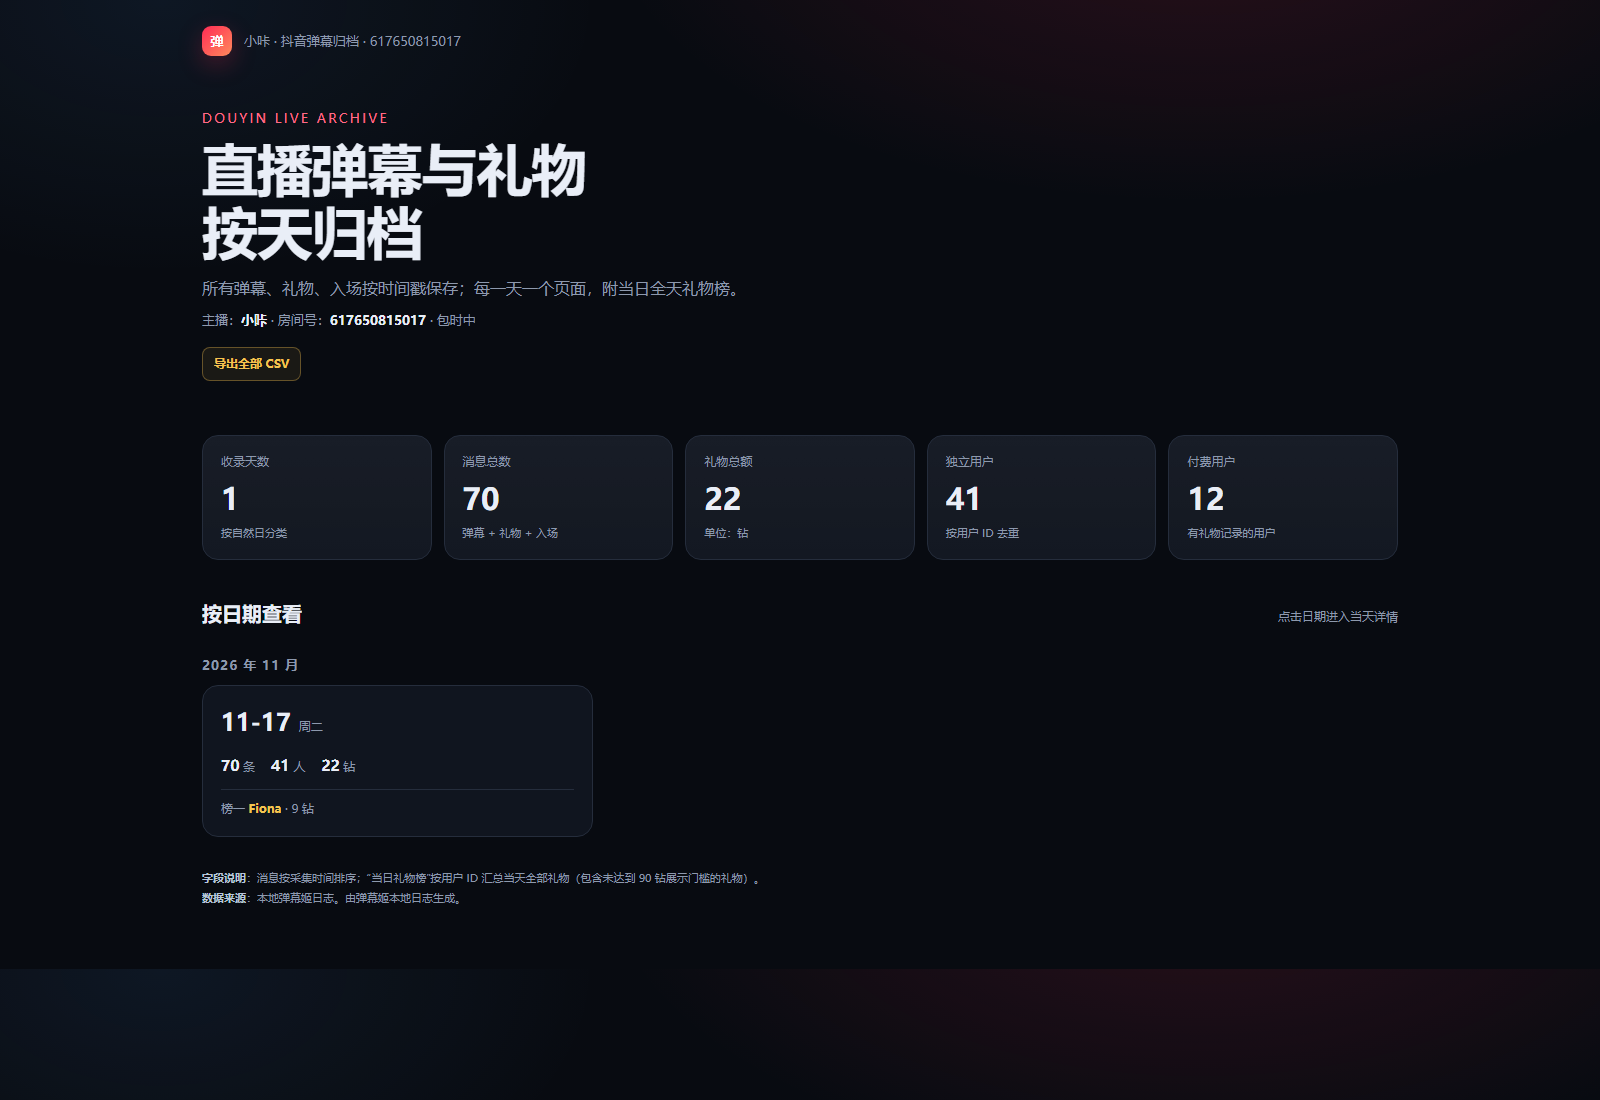
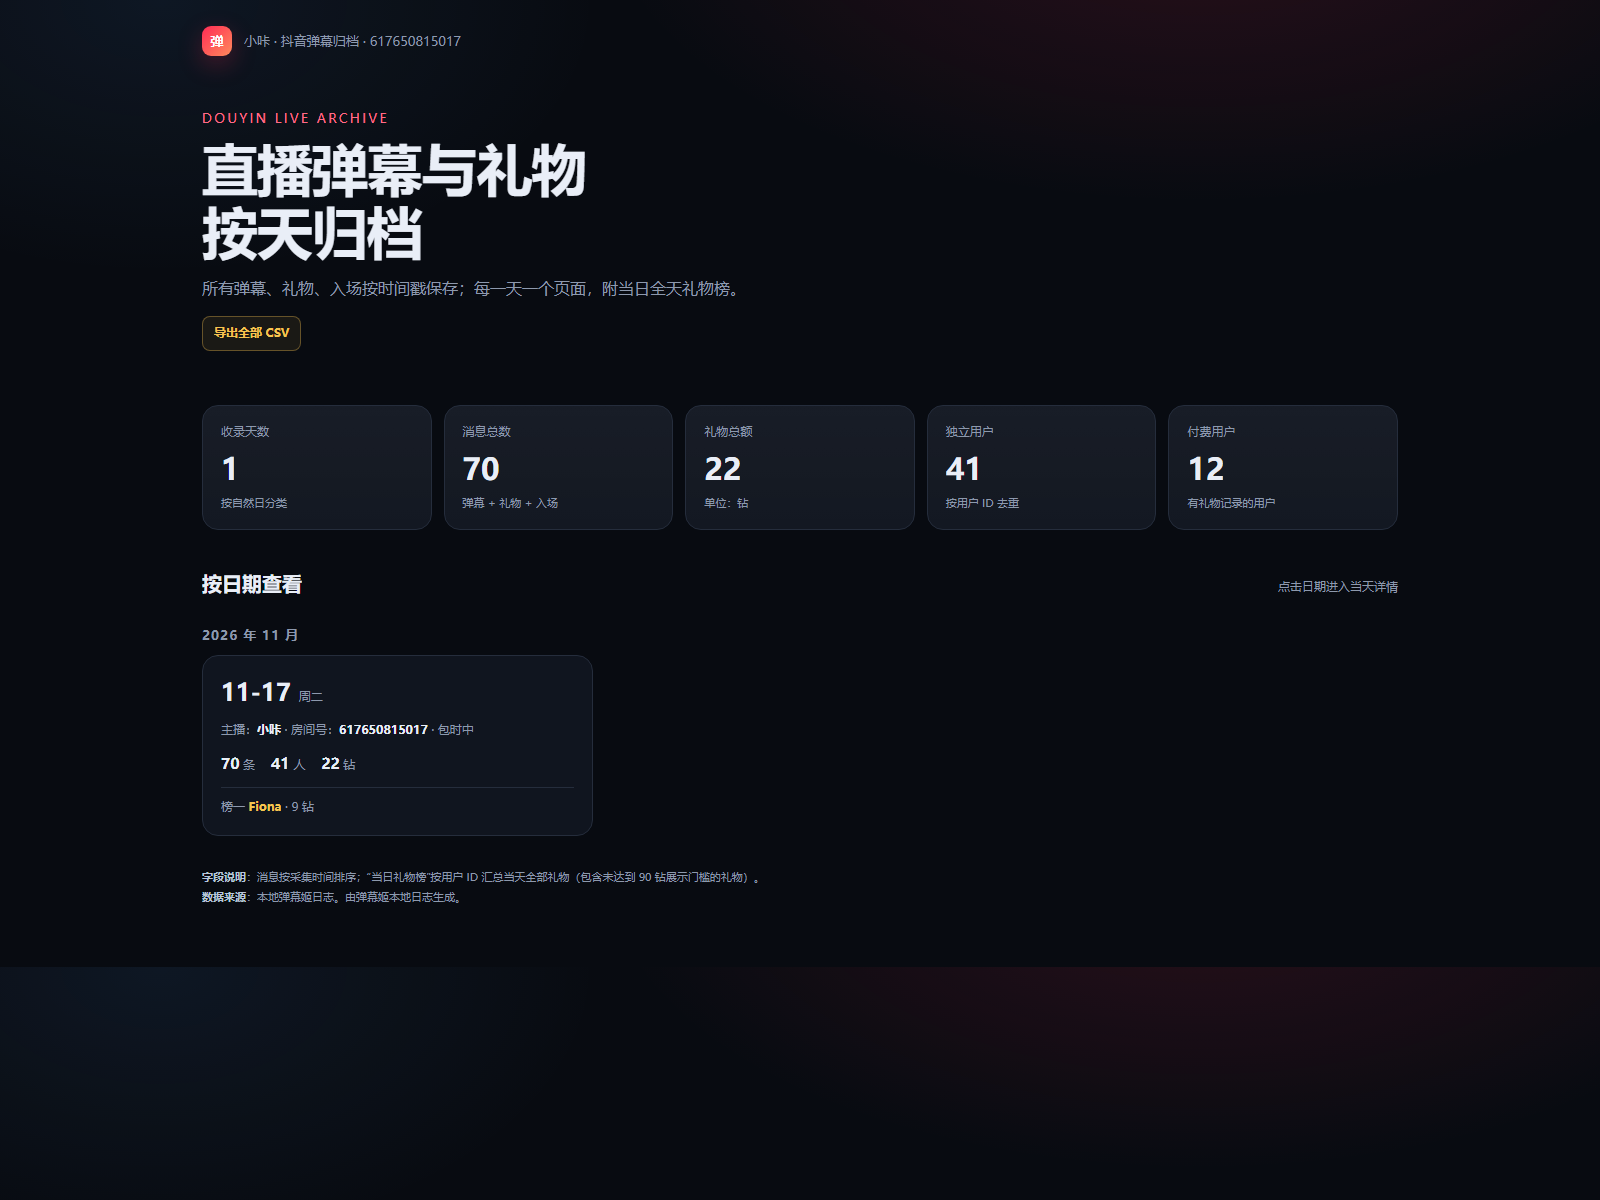
Auto-update daily archive site and move room metadata to date cards

diff --git a/aurora_gui.py b/aurora_gui.py
@@ -3,8 +3,8 @@
 """弹幕助手 · Aurora Dark
 
 单一弹幕流：聊天 + 粉丝团 Lv.15+ 入场混排；
-底部固定 5 条 >90 钻礼物，格式为：
-    Lv.16  ID 123456  送出了 嘉年华 ×2，价值 60,000 钻
+底部可滚动礼物栏，默认显示最近 5 条 >90 钻礼物，格式为：
+    消费Lv.26 粉丝Lv.16 小番茄 送出了【跑车】x1，价值1,200钻
 界面不显示时间戳，但 CSV / 导出网站仍保留完整时间。
 """
 
@@ -59,8 +59,11 @@ class AuroraApp:
 
         self.chat_count = 0
         self.gift_count = 0
+        self.total_events = 0
         self.gift_rows: dict[str, dict] = {}
         self.gift_order: list[str] = []
+        self._last_auto_export_events = -1
+        self._auto_export_job = None
 
         self._setup_style()
         self._build_topbar()
@@ -72,6 +75,7 @@ class AuroraApp:
         self.root.after(60, self._dark_titlebar)
         self.root.protocol("WM_DELETE_WINDOW", self.on_close)
         self.root.after(100, self.drain_events)
+        self.root.after(120_000, self._auto_export_loop)
 
     def _dark_titlebar(self):
         try:
@@ -798,11 +802,31 @@ class AuroraApp:
             self._set_status("已断开", MUTED)
 
     def on_close(self):
+        try:
+            if self.client is not None and self.total_events > 0:
+                self.export_site(open_browser=False, quiet=True)
+        except Exception:
+            pass
         if self.client is not None:
             self.client.stop()
         self.root.destroy()
 
-    def export_site(self):
+    def _auto_export_loop(self):
+        """定期把当天日志刷进静态站点；跨天时会自动生成新的日期页。"""
+        try:
+            if (
+                self.client is not None
+                and self.total_events > 0
+                and self.total_events != self._last_auto_export_events
+            ):
+                if self.export_site(open_browser=False, quiet=True):
+                    self._last_auto_export_events = self.total_events
+        except Exception:
+            pass
+        finally:
+            self._auto_export_job = self.root.after(120_000, self._auto_export_loop)
+
+    def export_site(self, open_browser: bool = True, quiet: bool = False) -> bool:
         try:
             import site_builder
 
@@ -812,12 +836,13 @@ class AuroraApp:
                     live_id = parse_live_id(self.room_var.get())
                 except Exception:
                     live_id = None
-            out = app_dir() / "site"
+            out = app_dir() / (f"site_{live_id}" if live_id else "site")
             logs = app_dir() / "logs"
             data = site_builder.load_messages_from_logs(logs, live_id=live_id)
             if not data:
-                messagebox.showinfo("导出网站", "还没有可导出的日志")
-                return
+                if not quiet:
+                    messagebox.showinfo("导出网站", "还没有可导出的日志")
+                return False
             meta = site_builder.load_room_meta(logs, live_id)
             anchor = str(meta.get("anchor_name") or "").strip()
             if anchor and live_id:
@@ -827,12 +852,17 @@ class AuroraApp:
             site_builder.build_site(
                 data, out, title=title, meta=meta, live_id=live_id
             )
-            import webbrowser
+            if open_browser:
+                import webbrowser
 
-            webbrowser.open((out / "index.html").as_uri())
-            messagebox.showinfo("导出网站", f"已导出 {len(data)} 条消息到：\n{out}")
+                webbrowser.open((out / "index.html").as_uri())
+            if not quiet:
+                messagebox.showinfo("导出网站", f"已导出 {len(data)} 条消息到：\n{out}")
+            return True
         except Exception as exc:
-            messagebox.showerror("导出网站失败", str(exc))
+            if not quiet:
+                messagebox.showerror("导出网站失败", str(exc))
+            return False
 
     # ------------------------------------------------------------------
     # 事件
@@ -853,6 +883,7 @@ class AuroraApp:
 
     def _handle(self, event: dict):
         kind = event.get("kind")
+        self.total_events += 1
         if kind == "chat":
             self._hide_chat_placeholder()
             level = int(event.get("fans_club_level") or 0)
@@ -979,6 +1010,7 @@ class AuroraApp:
         self._hide_gift_placeholder()
         self._show_gift_placeholder()
         self.chat_count = self.gift_count = 0
+        self.total_events = 0
         self.chat_badge.configure(text="0")
         self.gift_badge.configure(text="0")
         if self.chat_placeholder is None:

diff --git a/site_builder.py b/site_builder.py
@@ -587,6 +587,7 @@ h1 { margin: 10px 0 12px; font-size: clamp(34px, 5vw, 56px); line-height: 1.12; 
 .date-card .nums b { color: var(--text); font-size: 15px; font-weight: 650; }
 .date-card .top { margin-top: 12px; padding-top: 10px; border-top: 1px solid var(--line); color: var(--muted); font-size: 12px; }
 .date-card .top b { color: var(--gold); }
+.date-card .room-meta { margin-top: 10px; font-size: 12px; color: var(--muted); }
 .daynav { display: flex; align-items: center; justify-content: space-between; gap: 12px; margin: 26px 0 18px; }
 .back { color: var(--muted); font-size: 13px; }
 .back:hover { color: var(--text); }
@@ -705,7 +706,6 @@ INDEX_TEMPLATE = """<!doctype html>
     <div class="kicker">Douyin Live Archive</div>
     <h1>直播弹幕与礼物<br>按天归档</h1>
     <p>所有弹幕、礼物、入场按时间戳保存；每一天一个页面，附当日全天礼物榜。__BADGE__</p>
-    <div class="room-meta">__ROOM_META__</div>
     <div class="hero-actions"><button class="btn" id="export-all">导出全部 CSV</button></div>
   </div>
   <div class="stats">
@@ -930,6 +930,7 @@ def _render_index(
         months.setdefault(month, []).append(day)
 
     sections: list[str] = []
+    meta_line = _room_meta_html(meta or {}, live_id)
     for month, dates in months.items():
         cards = []
         for day in dates:
@@ -945,6 +946,7 @@ def _render_index(
             cards.append(
                 f"""<a class="date-card" href="{day}.html">
   <div class="date"><span class="day">{day[5:]}</span><span class="weekday">{_weekday(day)}</span></div>
+  <div class="room-meta">{meta_line}</div>
   <div class="nums"><span><b>{stats['messages']}</b> 条</span><span><b>{stats['users']}</b> 人</span><span><b>{stats['diamonds']:,}</b> 钻</span></div>
   <div class="top">{top_text}</div>
 </a>"""

diff --git a/README_GUI.md b/README_GUI.md
@@ -71,22 +71,23 @@ received_at,kind,msg_id,user_id,nickname,fans_club_level,pay_level,content,gift_
 
 ## 导出按天网站
 
-点顶部 **「导出网站」**，程序会读取 `logs/` 里所有 CSV/JSONL，生成：
+点顶部 **「导出网站」** 可立即生成；程序运行期间也会自动维护站点。它读取 `logs/` 里所有 CSV/JSONL，生成按直播间分开的目录：
 
 ```text
-site/
+site_617650815017/
   index.html              所有日期入口
   2026-11-17.html         每天一页（全部消息 + 当日礼物榜）
   assets/style.css
   manifest.json
 ```
 
+- **自动更新**：程序运行期间每 2 分钟检查一次，有新内容就重新生成；关闭程序时再更新一次。跨天会自动生成新的日期页。
 - 每天一页，按采集时间升序；支持按「全部 / 弹幕 / 礼物 / 入场」筛选和关键词搜索。
-- 首页和日期页显示**主播名、房间号**；日期页礼物榜顶部显示**当日总额、付费人数**，同一天多场直播会合并统计。
+- 首页「按日期查看」的每张日期卡片显示**主播名、房间号**；日期页顶部同样显示，并在礼物榜顶部显示**当日总额、付费人数**，同一天多场直播会合并统计。
 - 日期页有「导出当日 CSV」，首页有「导出全部 CSV」，可直接下载，不需要服务器。
 - 当日礼物榜按 **用户 ID** 汇总当天全部礼物（包含 1 钻小礼物）；连击按整组合并。
-- 纯静态页面，双击 `site/index.html` 即可看，不需要启动服务器。
-- 命令行也可以单独生成：`python site_builder.py --logs logs --out site --live-id 617650815017`
+- 纯静态页面，双击 `site_<直播间>/index.html` 即可看，不需要启动服务器。
+- 命令行也可以单独生成：`python site_builder.py --logs logs --out site_617650815017 --live-id 617650815017`
 - 想先看样式：打开 `site_preview/index.html`（模拟数据）。
 
 ## 口径说明
